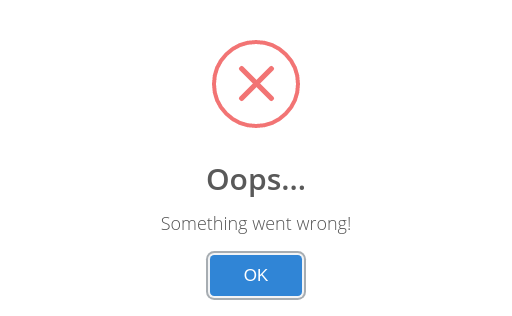
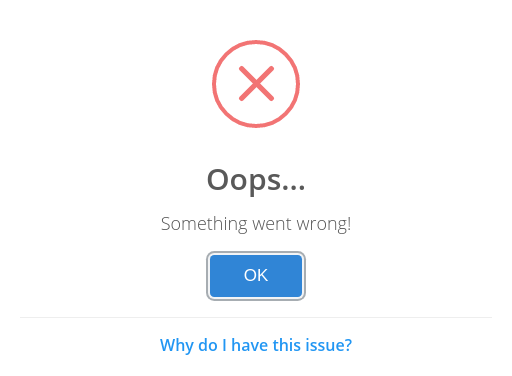
Bump screenshots after adding footer

Changed region(s): [[0.3125, 0.6551, 0.6875, 0.9684], [0.4062, 0.0854, 0.5938, 0.4272], [0.3125, 0.4272, 0.6875, 0.6266]]

diff --git a/visual-tests.js b/visual-tests.js
@@ -157,8 +157,10 @@ async function run (testCase) {
   await page.waitFor(1000)
 
   // Remove Carbon Ads
-  await page.$eval('.swal2-modal .bsa-cpc', el => {
-    return el.remove()
+  await page.$eval('.swal2-footer', el => {
+    if (el.firstChild.className === 'bsa-cpc') {
+      return el.remove()
+    }
   })
 
   const swalContainerHandle = await page.$('.swal2-container')
